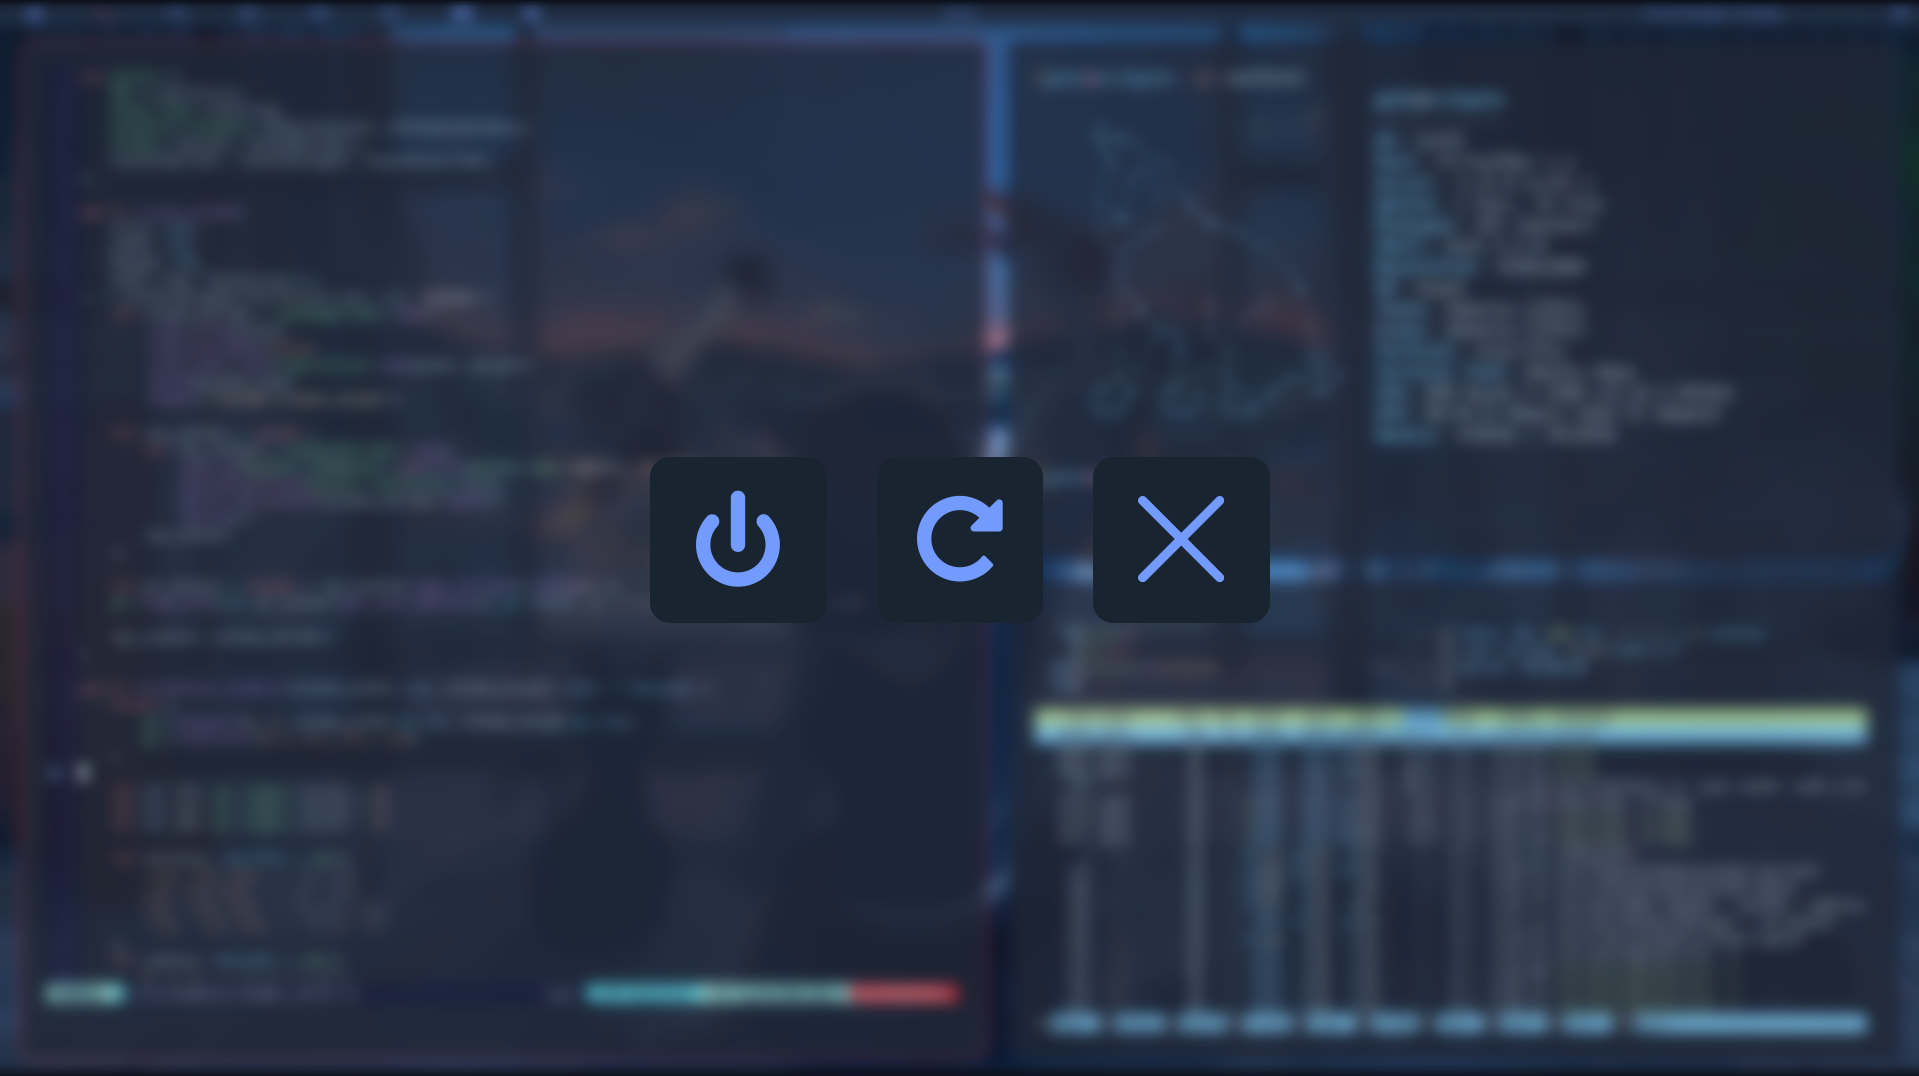
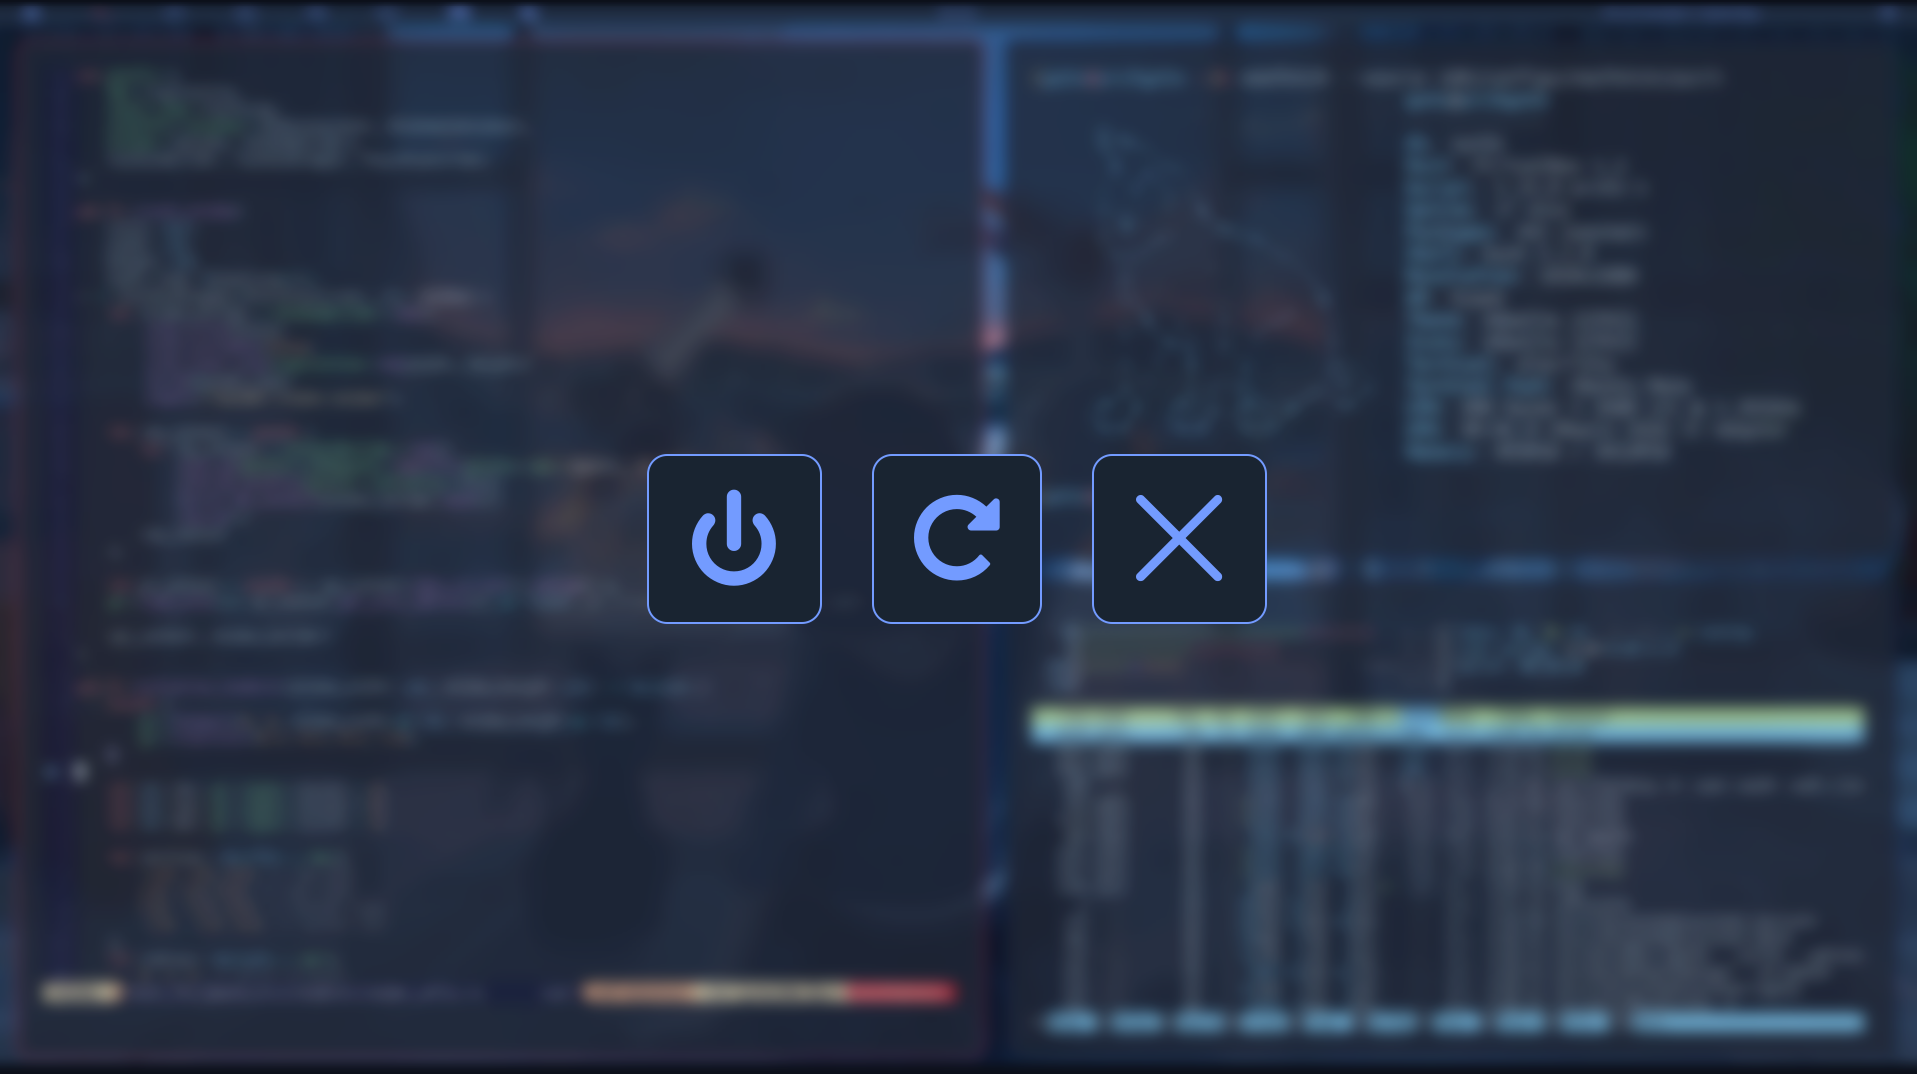
borders

diff --git a/configs/eww/eww.scss b/configs/eww/eww.scss
@@ -68,6 +68,7 @@
 .shutoffBox, .rebootBox, .closeBox {
   font-size: 100px;
   background-color: #192431;
+  border: 2px solid rgb(115, 155, 255);
   border-radius: 20px;
 }
 
